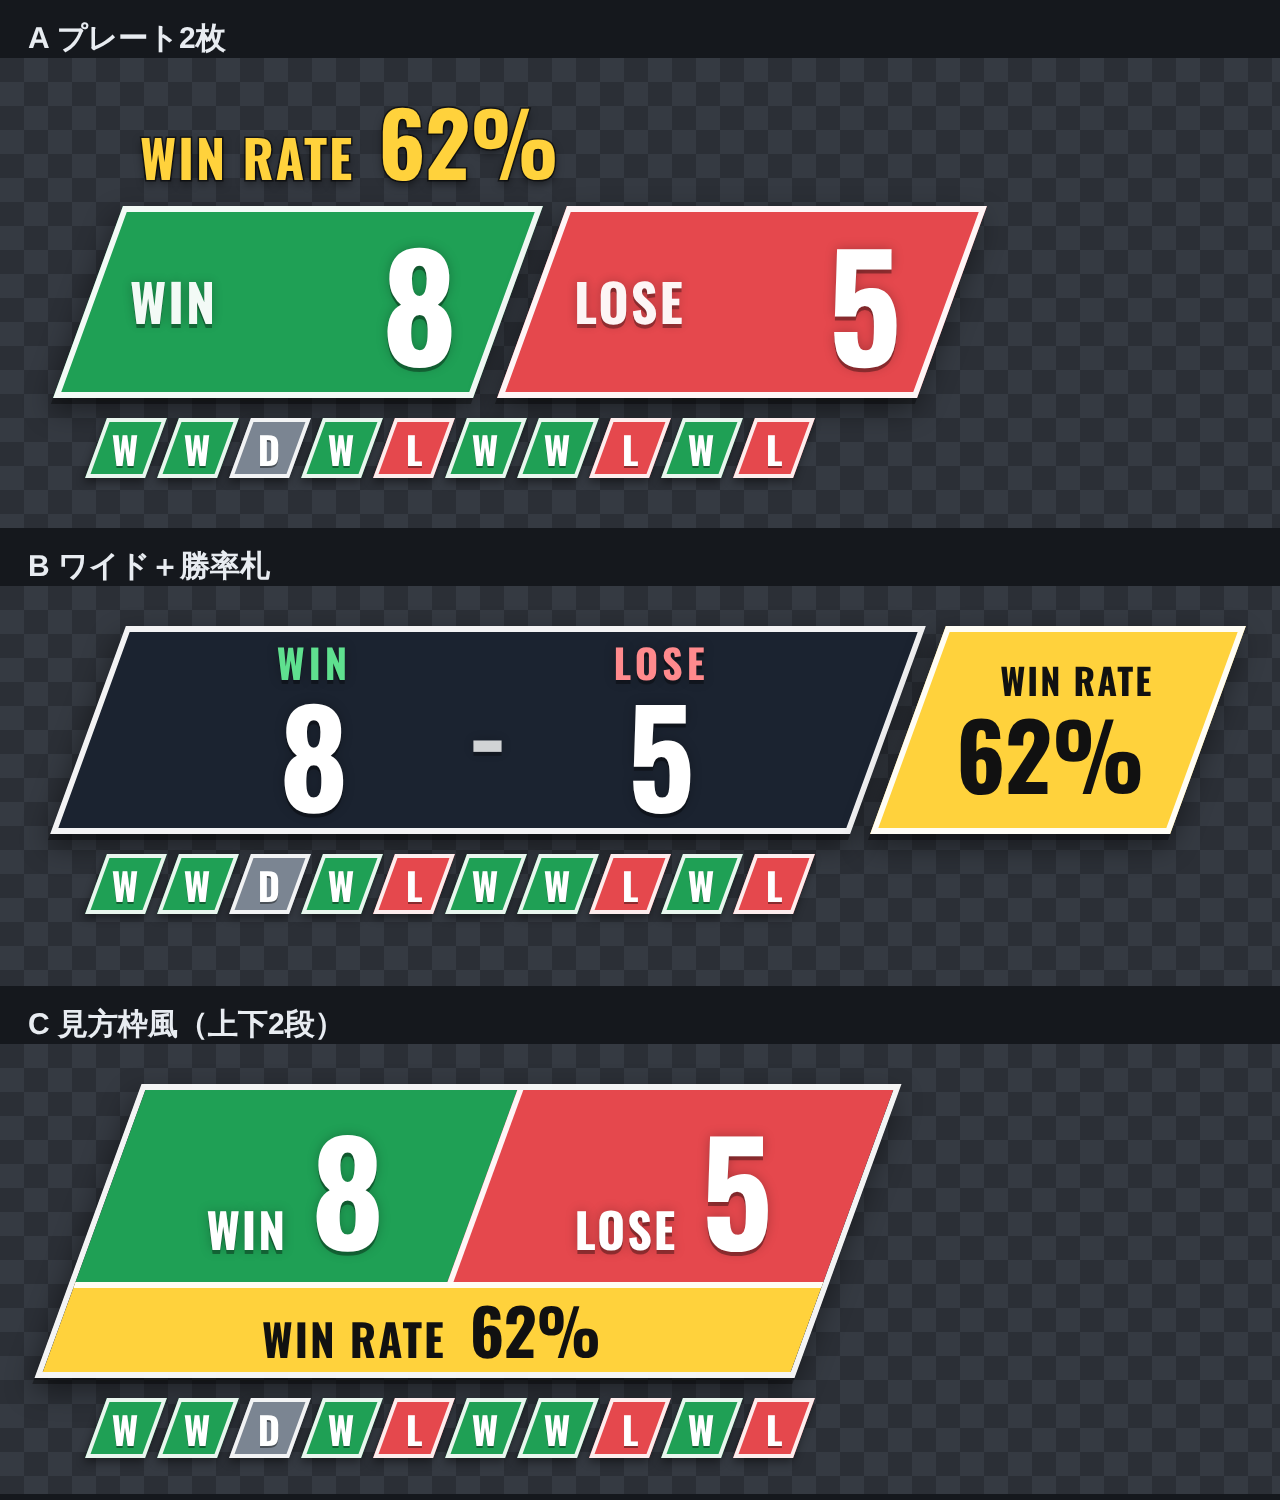
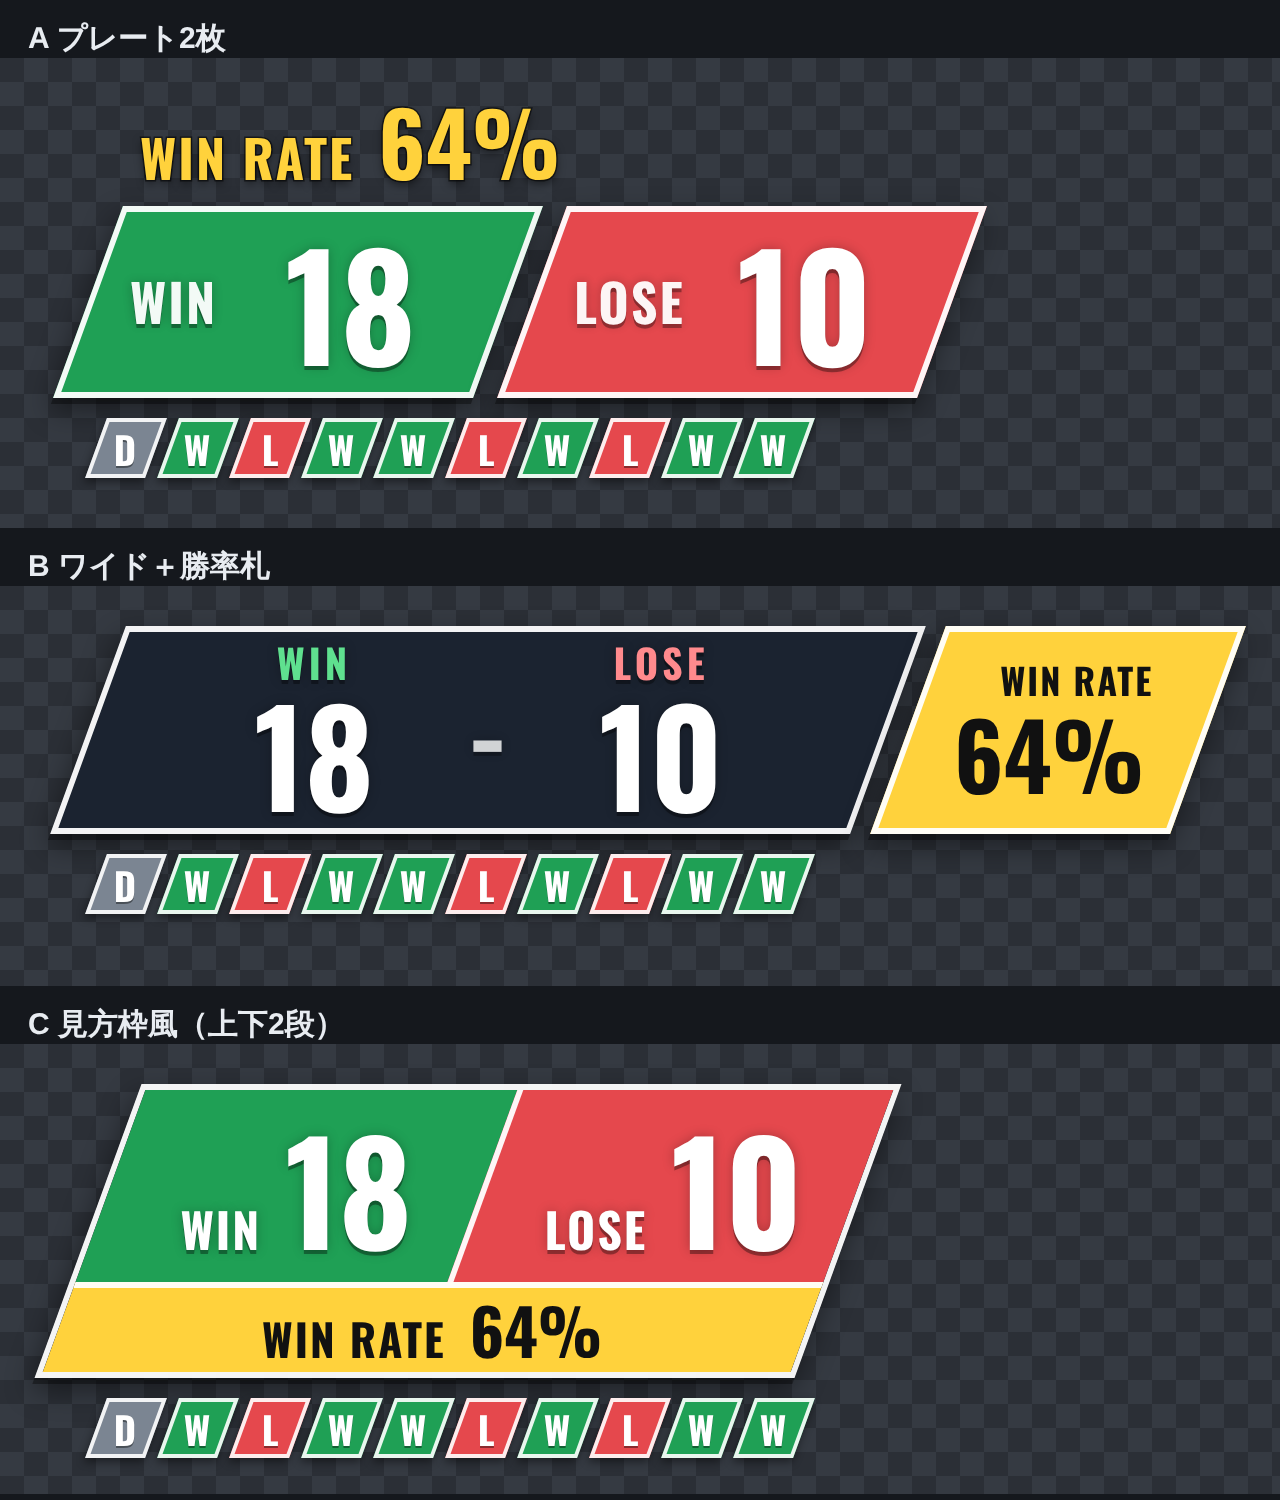
勝敗カウンター: 加算時のアニメーションを変更し、案Aの数字を中央寄せに
- 数字が拡大して戻るアニメーションは .unskew の傾き打ち消しを上書きしていたため、
  一瞬斜体になってから戻って見えていた。内側の要素だけを動かす「下からせり上がる＋札が光る」に変更
- 案A（プレート2枚）の数字を、ラベルを除いた残りの幅の中央に配置

Claude-Session: https://claude.ai/code/session_01628YofScLKNs1UMsMBvAUv

diff --git a/src/public/counter.html b/src/public/counter.html
@@ -51,19 +51,24 @@
   .recent i.new { animation: drop .35s ease-out; }
   @keyframes drop { 0% { transform: skewX(var(--skew)) translateY(-14px) scale(1.3); opacity: 0; } 100% { transform: skewX(var(--skew)); opacity: 1; } }
 
-  .pop { animation: pop .35s ease-out; }
-  @keyframes pop { 0% { transform: scale(1.45); } 100% { transform: scale(1); } }
+  /* 数字が変わったとき：新しい数字が下からせり上がり、札が一瞬光る。
+     傾きを打ち消す transform（.unskew）を上書きしないよう、数字は内側の <b> だけを動かす */
+  [data-val] > b { display: inline-block; font-weight: inherit; }
+  [data-val] > b.roll { animation: roll .38s cubic-bezier(.2,.8,.2,1); }
+  @keyframes roll { 0% { transform: translateY(70%); opacity: 0; } 60% { opacity: 1; } 100% { transform: none; opacity: 1; } }
+  .flash { animation: flash .45s ease-out; }
+  @keyframes flash { 0% { filter: brightness(1.6); } 100% { filter: none; } }
 
   /* ---- 案A: プレート2枚 ---- */
   .d-plate .rate { display: flex; align-items: baseline; gap: 12px; padding-left: 26px; }
   .d-plate .rate .lab { font-size: 26px; letter-spacing: 1px; }
   .d-plate .rate .val { font-size: 44px; }
   .d-plate .pair { display: flex; gap: 12px; }
-  .d-plate .pair .plate { width: 210px; height: 96px; display: flex; align-items: center; justify-content: space-between; padding: 0 22px 0 18px; }
+  .d-plate .pair .plate { width: 210px; height: 96px; display: flex; align-items: center; padding: 0 10px 0 18px; }
   .d-plate .win { background: var(--win); }
   .d-plate .lose { background: var(--lose); }
   .d-plate .pair .lab { font-size: 26px; letter-spacing: 1px; opacity: .95; }
-  .d-plate .pair .num { font-size: 72px; }
+  .d-plate .pair .num { font-size: 72px; flex: 1 1 auto; text-align: center; }  /* 1〜2桁の数字を残りの幅の中央に */
 
   /* ---- 案B: ワイド1枚＋勝率札 ---- */
   .d-wide .main { display: flex; align-items: stretch; }
@@ -152,10 +157,16 @@
   }
 
   function setText(el, v) {
-    if (!el || el.textContent === v) return;
-    var had = el.textContent !== "";
-    el.textContent = v;
-    if (had) { el.classList.remove("pop"); void el.offsetWidth; el.classList.add("pop"); }
+    if (!el) return;
+    var b = el.firstElementChild;
+    if (!b) { b = document.createElement("b"); el.textContent = ""; el.appendChild(b); }
+    if (b.textContent === v) return;
+    var had = b.textContent !== "";
+    b.textContent = v;
+    if (!had) return;
+    b.classList.remove("roll"); void b.offsetWidth; b.classList.add("roll");
+    var plate = el.closest(".win, .lose");
+    if (plate && el.dataset.val !== "rate") { plate.classList.remove("flash"); void plate.offsetWidth; plate.classList.add("flash"); }
   }
 
   function render(c) {
